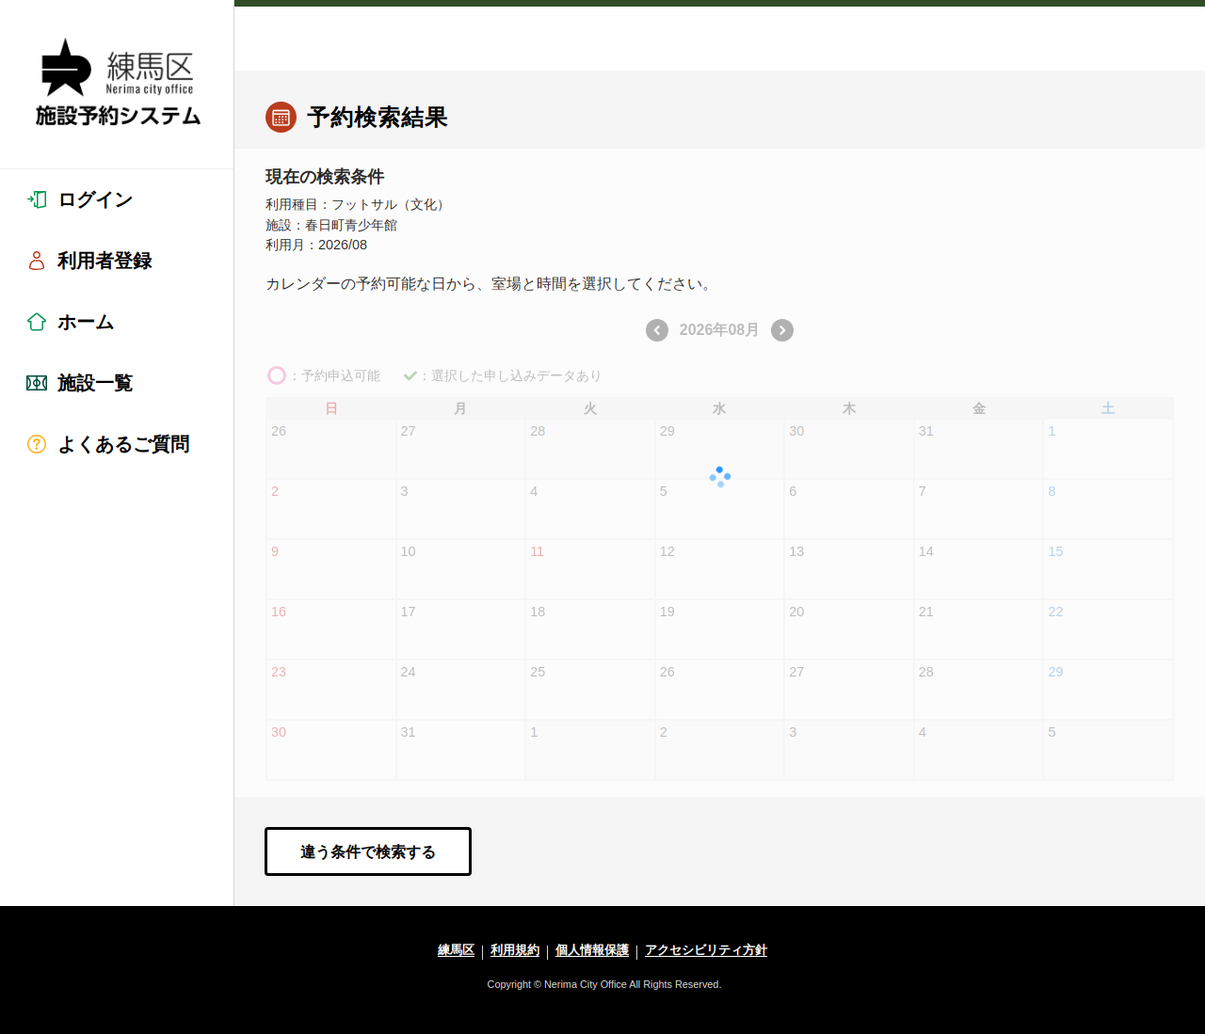
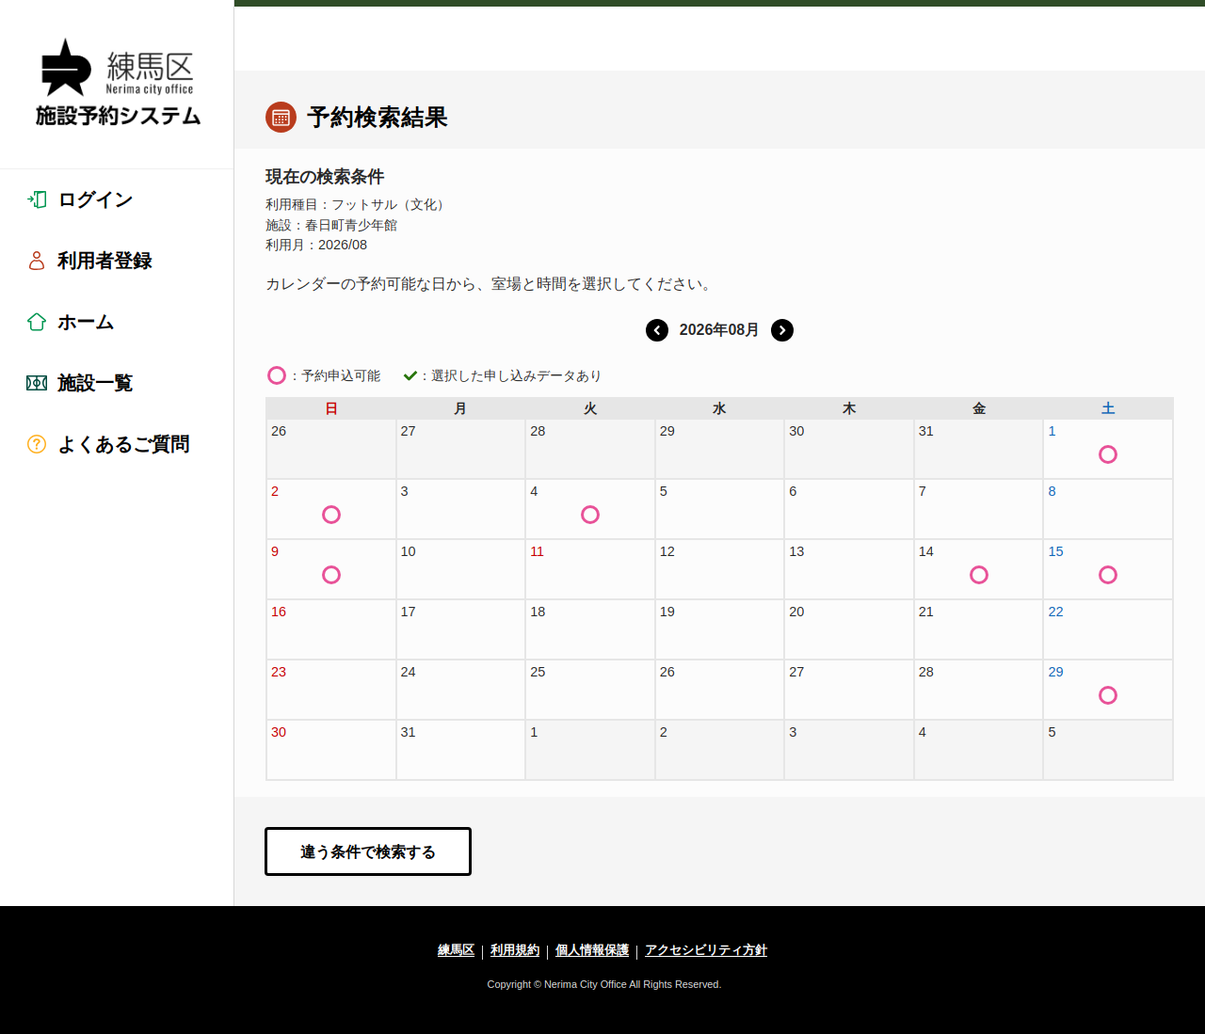
空き状況チェック結果を更新 [skip ci]

diff --git a/debug/kasugacho_2026-09_calendar.html b/debug/kasugacho_2026-09_calendar.html
@@ -1,1 +1,1 @@
-<body><noscript>You need to enable JavaScript to run this app.</noscript><div id="root"><section class="ant-layout"><section class="ant-layout ant-layout-has-sider"><aside class="ant-layout-sider ant-layout-sider-dark" style="transition: width; border-right: 1px solid rgb(215, 215, 215); flex: 0 0 249px; max-width: 249px; min-width: 249px; width: 249px;"><div class="ant-layout-sider-children"><div class="sidemenu top_logo_pc"><img src="/static/media/img_logo_pc.39515089c1ad351b9ff0.png" alt="施設予約システム" width="200" style="cursor: pointer;"></div><ul class="ant-menu ant-menu-root ant-menu-vertical ant-menu-light" role="menu" tabindex="0" data-menu-list="true"><div class="ant-divider ant-divider-horizontal" eventkey="tmp_key-0" role="separator" style="margin: 0px; padding: 0px;"></div><li class="ant-menu-item sans_w6_xl_ls0 menu-item-text" role="menuitem" tabindex="0" data-menu-id="rc-menu-uuid-25950-2-login" style="display: flex;"><img src="/static/media/ic_login.e179cd0c9fc7a4905ae7d0d52a1af6d0.svg" alt="login" class="ant-menu-item-icon"><span class="ant-menu-title-content">ログイン</span></li><li class="ant-menu-item sans_w6_xl_ls0 menu-item-text" role="menuitem" tabindex="0" data-menu-id="rc-menu-uuid-25950-2-user_registration" style="display: flex;"><img src="/static/media/ic_user.b6f4aa4f2d3d592122b4deb7765cf8aa.svg" alt="user_registration" class="ant-menu-item-icon"><span class="ant-menu-title-content">利用者登録</span></li><li class="ant-menu-item sans_w6_xl_ls0 menu-item-text" role="menuitem" tabindex="0" data-menu-id="rc-menu-uuid-25950-2-home" style="display: flex;"><img src="/static/media/ic_home.80326722bed4343bb1c14dc830bc9bbe.svg" alt="home" class="ant-menu-item-icon"><span class="ant-menu-title-content">ホーム</span></li><li class="ant-menu-item sans_w6_xl_ls0 menu-item-text" role="menuitem" tabindex="0" data-menu-id="rc-menu-uuid-25950-2-facility_list" style="display: flex;"><img src="/static/media/ic_coat.6a77ee7ea522719f2007352183163283.svg" alt="facility_list" class="ant-menu-item-icon"><span class="ant-menu-title-content">施設一覧</span></li><li class="ant-menu-item sans_w6_xl_ls0 menu-item-text" role="menuitem" tabindex="0" data-menu-id="rc-menu-uuid-25950-2-faq" style="display: flex;"><img src="/static/media/ic_quastion_line.0c93715f944545e537e7fce5f568393a.svg" alt="faq" class="ant-menu-item-icon"><span class="ant-menu-title-content">よくあるご質問</span></li><li class="ant-menu-item sans_w6_xl_ls0 menu-item-text" role="menuitem" tabindex="0" data-menu-id="rc-menu-uuid-25950-2-reservation_search" style="display: none;"><img src="" alt="reservation_search" class="ant-menu-item-icon"><span class="ant-menu-title-content">none</span></li></ul><div aria-hidden="true" style="display: none;"><div class="ant-divider ant-divider-horizontal" eventkey="tmp_key-0" role="separator" style="margin: 0px; padding: 0px;"></div></div></div></aside><section class="ant-layout"><div class="ant-page-header"><div class="ant-page-header-heading"><div class="ant-page-header-heading-left"><span class="ant-page-header-heading-title"><div class="content_header"><div class="padder_white cont_haed_pc sans_w3_xs_ls0" style="margin: 22px 0px 15px 32px;"></div></div></span></div></div></div><main class="ant-layout-content" style="width: 100%;"><div class="padder_cultured-pearl"><div class="margin_box"><section class="cont_user_regist t32px b16px"><h1 class="title_text title-1 valign-text-middle title-font">予約検索結果</h1></section></div></div><div class="padder_baby-powder"><section class="margin_box"><div><h2 class="sans_w6_l_ls0 bold t20px">現在の検索条件</h2></div><div class="t16px"><ul class="sans_w3_s lh15m"><li>利用種目：フットサル（文化）</li><li>施設：春日町青少年館</li><li>利用月：2026/09</li></ul></div><div class="t24px b24px"><p class="sans_w3_m_ls0 lh15m">お探しの条件では空き施設が見つかりませんでした。</p></div></section></div><div class="padder_cultured-pearl"><div class="ant-row t24px b24px"><button type="button" class="ant-btn ant-btn-default ant-btn column-normal sans_w6_m_ls0" style="margin: 8px 8px 8px 0px;"><span>違う条件で検索する</span></button></div></div><div class="ant-back-top scroller_position"></div></main></section></section><footer class="ant-layout-footer" style="text-align: center;"><div class="footer_area"><ul class="footer_link sans_w3_s"><li tabindex="0" class="footer_text" style="cursor: pointer;">練馬区</li><div class="footer_devider pc"></div><li tabindex="0" class="footer_text" style="cursor: pointer;">利用規約</li><div class="footer_devider pc"></div><li tabindex="0" class="footer_text" style="cursor: pointer;">個人情報保護</li><div class="footer_devider pc"></div><li tabindex="0" class="footer_text" style="cursor: pointer;">アクセシビリティ方針</li></ul><p class="footer_copyright sans_w3_xs_ls0">Copyright © Nerima City Office All Rights Reserved.</p></div></footer></section></div><script async="" src="https://www.googletagmanager.com/gtag/js?id=G-JPXSQ0G0VP"></script></body>
+<body><noscript>You need to enable JavaScript to run this app.</noscript><div id="root"><section class="ant-layout"><section class="ant-layout ant-layout-has-sider"><aside class="ant-layout-sider ant-layout-sider-dark" style="transition: width; border-right: 1px solid rgb(215, 215, 215); flex: 0 0 249px; max-width: 249px; min-width: 249px; width: 249px;"><div class="ant-layout-sider-children"><div class="sidemenu top_logo_pc"><img src="/static/media/img_logo_pc.39515089c1ad351b9ff0.png" alt="施設予約システム" width="200" style="cursor: pointer;"></div><ul class="ant-menu ant-menu-root ant-menu-vertical ant-menu-light" role="menu" tabindex="0" data-menu-list="true"><div class="ant-divider ant-divider-horizontal" eventkey="tmp_key-0" role="separator" style="margin: 0px; padding: 0px;"></div><li class="ant-menu-item sans_w6_xl_ls0 menu-item-text" role="menuitem" tabindex="0" data-menu-id="rc-menu-uuid-52237-2-login" style="display: flex;"><img src="/static/media/ic_login.e179cd0c9fc7a4905ae7d0d52a1af6d0.svg" alt="login" class="ant-menu-item-icon"><span class="ant-menu-title-content">ログイン</span></li><li class="ant-menu-item sans_w6_xl_ls0 menu-item-text" role="menuitem" tabindex="0" data-menu-id="rc-menu-uuid-52237-2-user_registration" style="display: flex;"><img src="/static/media/ic_user.b6f4aa4f2d3d592122b4deb7765cf8aa.svg" alt="user_registration" class="ant-menu-item-icon"><span class="ant-menu-title-content">利用者登録</span></li><li class="ant-menu-item sans_w6_xl_ls0 menu-item-text" role="menuitem" tabindex="0" data-menu-id="rc-menu-uuid-52237-2-home" style="display: flex;"><img src="/static/media/ic_home.80326722bed4343bb1c14dc830bc9bbe.svg" alt="home" class="ant-menu-item-icon"><span class="ant-menu-title-content">ホーム</span></li><li class="ant-menu-item sans_w6_xl_ls0 menu-item-text" role="menuitem" tabindex="0" data-menu-id="rc-menu-uuid-52237-2-facility_list" style="display: flex;"><img src="/static/media/ic_coat.6a77ee7ea522719f2007352183163283.svg" alt="facility_list" class="ant-menu-item-icon"><span class="ant-menu-title-content">施設一覧</span></li><li class="ant-menu-item sans_w6_xl_ls0 menu-item-text" role="menuitem" tabindex="0" data-menu-id="rc-menu-uuid-52237-2-faq" style="display: flex;"><img src="/static/media/ic_quastion_line.0c93715f944545e537e7fce5f568393a.svg" alt="faq" class="ant-menu-item-icon"><span class="ant-menu-title-content">よくあるご質問</span></li><li class="ant-menu-item sans_w6_xl_ls0 menu-item-text" role="menuitem" tabindex="0" data-menu-id="rc-menu-uuid-52237-2-reservation_search" style="display: none;"><img src="" alt="reservation_search" class="ant-menu-item-icon"><span class="ant-menu-title-content">none</span></li></ul><div aria-hidden="true" style="display: none;"><div class="ant-divider ant-divider-horizontal" eventkey="tmp_key-0" role="separator" style="margin: 0px; padding: 0px;"></div></div></div></aside><section class="ant-layout"><div class="ant-page-header"><div class="ant-page-header-heading"><div class="ant-page-header-heading-left"><span class="ant-page-header-heading-title"><div class="content_header"><div class="padder_white cont_haed_pc sans_w3_xs_ls0" style="margin: 22px 0px 15px 32px;"></div></div></span></div></div></div><main class="ant-layout-content" style="width: 100%;"><div class="padder_cultured-pearl"><div class="margin_box"><section class="cont_user_regist t32px b16px"><h1 class="title_text title-1 valign-text-middle title-font">予約検索結果</h1></section></div></div><div class="padder_baby-powder"><section class="margin_box"><div><h2 class="sans_w6_l_ls0 bold t20px">現在の検索条件</h2></div><div class="t16px"><ul class="sans_w3_s lh15m"><li>利用種目：フットサル（文化）</li><li>施設：春日町青少年館</li><li>利用月：2026/09</li></ul></div><div class="t24px b24px"><p class="sans_w3_m_ls0 lh15m">お探しの条件では空き施設が見つかりませんでした。</p></div></section></div><div class="padder_cultured-pearl"><div class="ant-row t24px b24px"><button type="button" class="ant-btn ant-btn-default ant-btn column-normal sans_w6_m_ls0" style="margin: 8px 8px 8px 0px;"><span>違う条件で検索する</span></button></div></div><div class="ant-back-top scroller_position"></div></main></section></section><footer class="ant-layout-footer" style="text-align: center;"><div class="footer_area"><ul class="footer_link sans_w3_s"><li tabindex="0" class="footer_text" style="cursor: pointer;">練馬区</li><div class="footer_devider pc"></div><li tabindex="0" class="footer_text" style="cursor: pointer;">利用規約</li><div class="footer_devider pc"></div><li tabindex="0" class="footer_text" style="cursor: pointer;">個人情報保護</li><div class="footer_devider pc"></div><li tabindex="0" class="footer_text" style="cursor: pointer;">アクセシビリティ方針</li></ul><p class="footer_copyright sans_w3_xs_ls0">Copyright © Nerima City Office All Rights Reserved.</p></div></footer></section></div><script async="" src="https://www.googletagmanager.com/gtag/js?id=G-JPXSQ0G0VP"></script></body>

diff --git a/debug/sunlife_2026-09_calendar.html b/debug/sunlife_2026-09_calendar.html
@@ -1,1 +1,1 @@
-<body><noscript>You need to enable JavaScript to run this app.</noscript><div id="root"><section class="ant-layout"><section class="ant-layout ant-layout-has-sider"><aside class="ant-layout-sider ant-layout-sider-dark" style="transition: width; border-right: 1px solid rgb(215, 215, 215); flex: 0 0 249px; max-width: 249px; min-width: 249px; width: 249px;"><div class="ant-layout-sider-children"><div class="sidemenu top_logo_pc"><img src="/static/media/img_logo_pc.39515089c1ad351b9ff0.png" alt="施設予約システム" width="200" style="cursor: pointer;"></div><ul class="ant-menu ant-menu-root ant-menu-vertical ant-menu-light" role="menu" tabindex="0" data-menu-list="true"><div class="ant-divider ant-divider-horizontal" eventkey="tmp_key-0" role="separator" style="margin: 0px; padding: 0px;"></div><li class="ant-menu-item sans_w6_xl_ls0 menu-item-text" role="menuitem" tabindex="0" data-menu-id="rc-menu-uuid-55500-2-login" style="display: flex;"><img src="/static/media/ic_login.e179cd0c9fc7a4905ae7d0d52a1af6d0.svg" alt="login" class="ant-menu-item-icon"><span class="ant-menu-title-content">ログイン</span></li><li class="ant-menu-item sans_w6_xl_ls0 menu-item-text" role="menuitem" tabindex="0" data-menu-id="rc-menu-uuid-55500-2-user_registration" style="display: flex;"><img src="/static/media/ic_user.b6f4aa4f2d3d592122b4deb7765cf8aa.svg" alt="user_registration" class="ant-menu-item-icon"><span class="ant-menu-title-content">利用者登録</span></li><li class="ant-menu-item sans_w6_xl_ls0 menu-item-text" role="menuitem" tabindex="0" data-menu-id="rc-menu-uuid-55500-2-home" style="display: flex;"><img src="/static/media/ic_home.80326722bed4343bb1c14dc830bc9bbe.svg" alt="home" class="ant-menu-item-icon"><span class="ant-menu-title-content">ホーム</span></li><li class="ant-menu-item sans_w6_xl_ls0 menu-item-text" role="menuitem" tabindex="0" data-menu-id="rc-menu-uuid-55500-2-facility_list" style="display: flex;"><img src="/static/media/ic_coat.6a77ee7ea522719f2007352183163283.svg" alt="facility_list" class="ant-menu-item-icon"><span class="ant-menu-title-content">施設一覧</span></li><li class="ant-menu-item sans_w6_xl_ls0 menu-item-text" role="menuitem" tabindex="0" data-menu-id="rc-menu-uuid-55500-2-faq" style="display: flex;"><img src="/static/media/ic_quastion_line.0c93715f944545e537e7fce5f568393a.svg" alt="faq" class="ant-menu-item-icon"><span class="ant-menu-title-content">よくあるご質問</span></li><li class="ant-menu-item sans_w6_xl_ls0 menu-item-text" role="menuitem" tabindex="0" data-menu-id="rc-menu-uuid-55500-2-reservation_search" style="display: none;"><img src="" alt="reservation_search" class="ant-menu-item-icon"><span class="ant-menu-title-content">none</span></li></ul><div aria-hidden="true" style="display: none;"><div class="ant-divider ant-divider-horizontal" eventkey="tmp_key-0" role="separator" style="margin: 0px; padding: 0px;"></div></div></div></aside><section class="ant-layout"><div class="ant-page-header"><div class="ant-page-header-heading"><div class="ant-page-header-heading-left"><span class="ant-page-header-heading-title"><div class="content_header"><div class="padder_white cont_haed_pc sans_w3_xs_ls0" style="margin: 22px 0px 15px 32px;"></div></div></span></div></div></div><main class="ant-layout-content" style="width: 100%;"><div class="padder_cultured-pearl"><div class="margin_box"><section class="cont_user_regist t32px b16px"><h1 class="title_text title-1 valign-text-middle title-font">予約検索結果</h1></section></div></div><div class="padder_baby-powder"><section class="margin_box"><div><h2 class="sans_w6_l_ls0 bold t20px">現在の検索条件</h2></div><div class="t16px"><ul class="sans_w3_s lh15m"><li>利用種目：フットサル（文化）</li><li>施設：サンライフ練馬</li><li>利用月：2026/09</li></ul></div><div class="t24px b24px"><p class="sans_w3_m_ls0 lh15m">お探しの条件では空き施設が見つかりませんでした。</p></div></section></div><div class="padder_cultured-pearl"><div class="ant-row t24px b24px"><button type="button" class="ant-btn ant-btn-default ant-btn column-normal sans_w6_m_ls0" style="margin: 8px 8px 8px 0px;"><span>違う条件で検索する</span></button></div></div><div class="ant-back-top scroller_position"></div></main></section></section><footer class="ant-layout-footer" style="text-align: center;"><div class="footer_area"><ul class="footer_link sans_w3_s"><li tabindex="0" class="footer_text" style="cursor: pointer;">練馬区</li><div class="footer_devider pc"></div><li tabindex="0" class="footer_text" style="cursor: pointer;">利用規約</li><div class="footer_devider pc"></div><li tabindex="0" class="footer_text" style="cursor: pointer;">個人情報保護</li><div class="footer_devider pc"></div><li tabindex="0" class="footer_text" style="cursor: pointer;">アクセシビリティ方針</li></ul><p class="footer_copyright sans_w3_xs_ls0">Copyright © Nerima City Office All Rights Reserved.</p></div></footer></section></div><script async="" src="https://www.googletagmanager.com/gtag/js?id=G-JPXSQ0G0VP"></script></body>
+<body><noscript>You need to enable JavaScript to run this app.</noscript><div id="root"><section class="ant-layout"><section class="ant-layout ant-layout-has-sider"><aside class="ant-layout-sider ant-layout-sider-dark" style="transition: width; border-right: 1px solid rgb(215, 215, 215); flex: 0 0 249px; max-width: 249px; min-width: 249px; width: 249px;"><div class="ant-layout-sider-children"><div class="sidemenu top_logo_pc"><img src="/static/media/img_logo_pc.39515089c1ad351b9ff0.png" alt="施設予約システム" width="200" style="cursor: pointer;"></div><ul class="ant-menu ant-menu-root ant-menu-vertical ant-menu-light" role="menu" tabindex="0" data-menu-list="true"><div class="ant-divider ant-divider-horizontal" eventkey="tmp_key-0" role="separator" style="margin: 0px; padding: 0px;"></div><li class="ant-menu-item sans_w6_xl_ls0 menu-item-text" role="menuitem" tabindex="0" data-menu-id="rc-menu-uuid-63610-2-login" style="display: flex;"><img src="/static/media/ic_login.e179cd0c9fc7a4905ae7d0d52a1af6d0.svg" alt="login" class="ant-menu-item-icon"><span class="ant-menu-title-content">ログイン</span></li><li class="ant-menu-item sans_w6_xl_ls0 menu-item-text" role="menuitem" tabindex="0" data-menu-id="rc-menu-uuid-63610-2-user_registration" style="display: flex;"><img src="/static/media/ic_user.b6f4aa4f2d3d592122b4deb7765cf8aa.svg" alt="user_registration" class="ant-menu-item-icon"><span class="ant-menu-title-content">利用者登録</span></li><li class="ant-menu-item sans_w6_xl_ls0 menu-item-text" role="menuitem" tabindex="0" data-menu-id="rc-menu-uuid-63610-2-home" style="display: flex;"><img src="/static/media/ic_home.80326722bed4343bb1c14dc830bc9bbe.svg" alt="home" class="ant-menu-item-icon"><span class="ant-menu-title-content">ホーム</span></li><li class="ant-menu-item sans_w6_xl_ls0 menu-item-text" role="menuitem" tabindex="0" data-menu-id="rc-menu-uuid-63610-2-facility_list" style="display: flex;"><img src="/static/media/ic_coat.6a77ee7ea522719f2007352183163283.svg" alt="facility_list" class="ant-menu-item-icon"><span class="ant-menu-title-content">施設一覧</span></li><li class="ant-menu-item sans_w6_xl_ls0 menu-item-text" role="menuitem" tabindex="0" data-menu-id="rc-menu-uuid-63610-2-faq" style="display: flex;"><img src="/static/media/ic_quastion_line.0c93715f944545e537e7fce5f568393a.svg" alt="faq" class="ant-menu-item-icon"><span class="ant-menu-title-content">よくあるご質問</span></li><li class="ant-menu-item sans_w6_xl_ls0 menu-item-text" role="menuitem" tabindex="0" data-menu-id="rc-menu-uuid-63610-2-reservation_search" style="display: none;"><img src="" alt="reservation_search" class="ant-menu-item-icon"><span class="ant-menu-title-content">none</span></li></ul><div aria-hidden="true" style="display: none;"><div class="ant-divider ant-divider-horizontal" eventkey="tmp_key-0" role="separator" style="margin: 0px; padding: 0px;"></div></div></div></aside><section class="ant-layout"><div class="ant-page-header"><div class="ant-page-header-heading"><div class="ant-page-header-heading-left"><span class="ant-page-header-heading-title"><div class="content_header"><div class="padder_white cont_haed_pc sans_w3_xs_ls0" style="margin: 22px 0px 15px 32px;"></div></div></span></div></div></div><main class="ant-layout-content" style="width: 100%;"><div class="padder_cultured-pearl"><div class="margin_box"><section class="cont_user_regist t32px b16px"><h1 class="title_text title-1 valign-text-middle title-font">予約検索結果</h1></section></div></div><div class="padder_baby-powder"><section class="margin_box"><div><h2 class="sans_w6_l_ls0 bold t20px">現在の検索条件</h2></div><div class="t16px"><ul class="sans_w3_s lh15m"><li>利用種目：フットサル（文化）</li><li>施設：サンライフ練馬</li><li>利用月：2026/09</li></ul></div><div class="t24px b24px"><p class="sans_w3_m_ls0 lh15m">お探しの条件では空き施設が見つかりませんでした。</p></div></section></div><div class="padder_cultured-pearl"><div class="ant-row t24px b24px"><button type="button" class="ant-btn ant-btn-default ant-btn column-normal sans_w6_m_ls0" style="margin: 8px 8px 8px 0px;"><span>違う条件で検索する</span></button></div></div><div class="ant-back-top scroller_position"></div></main></section></section><footer class="ant-layout-footer" style="text-align: center;"><div class="footer_area"><ul class="footer_link sans_w3_s"><li tabindex="0" class="footer_text" style="cursor: pointer;">練馬区</li><div class="footer_devider pc"></div><li tabindex="0" class="footer_text" style="cursor: pointer;">利用規約</li><div class="footer_devider pc"></div><li tabindex="0" class="footer_text" style="cursor: pointer;">個人情報保護</li><div class="footer_devider pc"></div><li tabindex="0" class="footer_text" style="cursor: pointer;">アクセシビリティ方針</li></ul><p class="footer_copyright sans_w3_xs_ls0">Copyright © Nerima City Office All Rights Reserved.</p></div></footer></section></div><script async="" src="https://www.googletagmanager.com/gtag/js?id=G-JPXSQ0G0VP"></script></body>

diff --git a/debug/kasugacho_2026-08_calendar.html b/debug/kasugacho_2026-08_calendar.html
@@ -1,1 +1,1 @@
-<table class="calendar t8px b16px" summary="カレンダー"><thead><tr class="calendardateheaders sans_w6_s_ls0"><th class="sunday">日</th><th>月</th><th>火</th><th>水</th><th>木</th><th>金</th><th class="saturday">土</th></tr></thead><tbody><tr class="tr_dates sans_w3_s"><td class="out-of-month"><div>26</div></td><td class="out-of-month"><div>27</div></td><td class="out-of-month"><div>28</div></td><td class="out-of-month"><div>29</div></td><td class="out-of-month"><div>30</div></td><td class="out-of-month"><div>31</div></td><td id="2026/08/01" class="saturday"><div>1</div></td></tr><tr class="tr_dates sans_w3_s"><td id="2026/08/02" class="sunday"><div>2</div></td><td id="2026/08/03" class=""><div>3</div></td><td id="2026/08/04" class=""><div>4</div></td><td id="2026/08/05" class=""><div>5</div></td><td id="2026/08/06" class=""><div>6</div></td><td id="2026/08/07" class=""><div>7</div></td><td id="2026/08/08" class="saturday"><div>8</div></td></tr><tr class="tr_dates sans_w3_s"><td id="2026/08/09" class="sunday"><div>9</div></td><td id="2026/08/10" class=""><div>10</div></td><td id="2026/08/11" class="holiday"><div>11</div></td><td id="2026/08/12" class=""><div>12</div></td><td id="2026/08/13" class=""><div>13</div></td><td id="2026/08/14" class=""><div>14</div></td><td id="2026/08/15" class="saturday"><div>15</div></td></tr><tr class="tr_dates sans_w3_s"><td id="2026/08/16" class="sunday"><div>16</div></td><td id="2026/08/17" class=""><div>17</div></td><td id="2026/08/18" class=""><div>18</div></td><td id="2026/08/19" class=""><div>19</div></td><td id="2026/08/20" class=""><div>20</div></td><td id="2026/08/21" class=""><div>21</div></td><td id="2026/08/22" class="saturday"><div>22</div></td></tr><tr class="tr_dates sans_w3_s"><td id="2026/08/23" class="sunday"><div>23</div></td><td id="2026/08/24" class=""><div>24</div></td><td id="2026/08/25" class=""><div>25</div></td><td id="2026/08/26" class=""><div>26</div></td><td id="2026/08/27" class=""><div>27</div></td><td id="2026/08/28" class=""><div>28</div></td><td id="2026/08/29" class="saturday"><div>29</div></td></tr><tr class="tr_dates sans_w3_s"><td id="2026/08/30" class="sunday"><div>30</div></td><td id="2026/08/31" class=""><div>31</div></td><td class="out-of-month"><div>1</div></td><td class="out-of-month"><div>2</div></td><td class="out-of-month"><div>3</div></td><td class="out-of-month"><div>4</div></td><td class="out-of-month"><div>5</div></td></tr></tbody></table>
+<table class="calendar t8px b16px" summary="カレンダー"><thead><tr class="calendardateheaders sans_w6_s_ls0"><th class="sunday">日</th><th>月</th><th>火</th><th>水</th><th>木</th><th>金</th><th class="saturday">土</th></tr></thead><tbody><tr class="tr_dates sans_w3_s"><td class="out-of-month"><div>26</div></td><td class="out-of-month"><div>27</div></td><td class="out-of-month"><div>28</div></td><td class="out-of-month"><div>29</div></td><td class="out-of-month"><div>30</div></td><td class="out-of-month"><div>31</div></td><td id="2026/08/01" class="saturday" style="cursor: pointer;"><div>1</div><span role="button" tabindex="0" class="vacant">予約申込可能</span></td></tr><tr class="tr_dates sans_w3_s"><td id="2026/08/02" class="sunday" style="cursor: pointer;"><div>2</div><span role="button" tabindex="0" class="vacant">予約申込可能</span></td><td id="2026/08/03" class=""><div>3</div></td><td id="2026/08/04" class="" style="cursor: pointer;"><div>4</div><span role="button" tabindex="0" class="vacant">予約申込可能</span></td><td id="2026/08/05" class=""><div>5</div></td><td id="2026/08/06" class=""><div>6</div></td><td id="2026/08/07" class=""><div>7</div></td><td id="2026/08/08" class="saturday"><div>8</div></td></tr><tr class="tr_dates sans_w3_s"><td id="2026/08/09" class="sunday" style="cursor: pointer;"><div>9</div><span role="button" tabindex="0" class="vacant">予約申込可能</span></td><td id="2026/08/10" class=""><div>10</div></td><td id="2026/08/11" class="holiday"><div>11</div></td><td id="2026/08/12" class=""><div>12</div></td><td id="2026/08/13" class=""><div>13</div></td><td id="2026/08/14" class="" style="cursor: pointer;"><div>14</div><span role="button" tabindex="0" class="vacant">予約申込可能</span></td><td id="2026/08/15" class="saturday" style="cursor: pointer;"><div>15</div><span role="button" tabindex="0" class="vacant">予約申込可能</span></td></tr><tr class="tr_dates sans_w3_s"><td id="2026/08/16" class="sunday"><div>16</div></td><td id="2026/08/17" class=""><div>17</div></td><td id="2026/08/18" class=""><div>18</div></td><td id="2026/08/19" class=""><div>19</div></td><td id="2026/08/20" class=""><div>20</div></td><td id="2026/08/21" class=""><div>21</div></td><td id="2026/08/22" class="saturday"><div>22</div></td></tr><tr class="tr_dates sans_w3_s"><td id="2026/08/23" class="sunday"><div>23</div></td><td id="2026/08/24" class=""><div>24</div></td><td id="2026/08/25" class=""><div>25</div></td><td id="2026/08/26" class=""><div>26</div></td><td id="2026/08/27" class=""><div>27</div></td><td id="2026/08/28" class=""><div>28</div></td><td id="2026/08/29" class="saturday" style="cursor: pointer;"><div>29</div><span role="button" tabindex="0" class="vacant">予約申込可能</span></td></tr><tr class="tr_dates sans_w3_s"><td id="2026/08/30" class="sunday"><div>30</div></td><td id="2026/08/31" class=""><div>31</div></td><td class="out-of-month"><div>1</div></td><td class="out-of-month"><div>2</div></td><td class="out-of-month"><div>3</div></td><td class="out-of-month"><div>4</div></td><td class="out-of-month"><div>5</div></td></tr></tbody></table>
